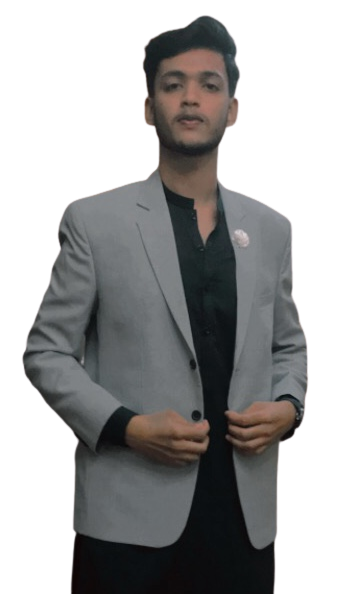
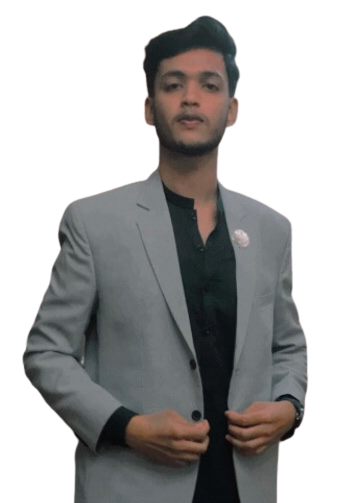
half

diff --git a/style.css b/style.css
@@ -2,45 +2,50 @@ body {
     margin: 0px;
     padding: 0px;
     background-color:rgb(54 53 67); 
+    color: white;
+    font-family: 'Roboto Mono', monospace;
 }
 .bg{
-    width: 500px;
-    height: 500px;
+    width: 325px;
+    height: 325px;
     background-color: rgb(41 41 43);
     box-sizing: border-box;
     border-radius: 360%;
     position: fixed;
     display: inline-block;
-    margin-left: 440px;
-    margin-top: 20px;
+    margin-left: 510px;
+    margin-top: -15px;
     z-index: -1;
 }
+
 body::before{
     content: "";
     background: url(profile.png) no-repeat center center/cover;
-    width: 300px;
-    height: 500px;
+    width: 215px;
+    height: 350px;
     position: fixed;
-    top: 165px;
-    left: 510px;
-    z-index: 1;
+    top: 71px;
+    left: 558px;
+    z-index: 2;
     opacity: 1;
 }
-.nav li {
-    list-style: none;
-}
-
-.nav li a {
-    text-decoration: none;
-    color:#ffffff5e
-}
-
-.nav {
+.navbar{
     display: flex;
-    flex-wrap: wrap;
-    justify-content: space-around;
-}
 
+}
+.nav{
+    display: flex;
+}
+.nav li{
+    list-style: none;
+    margin: 5px 20px;
+    padding: 10px 15px;
+    
+}
+.nav li a{
+    text-decoration: none;
+    color: white;
+}
 .nav li a.active,
 .nav li a:hover {
             text-decoration: none;
@@ -49,13 +54,20 @@ body::before{
             font-weight: bold;
             transition-duration: 0.5s;
         }
-
-.mid {
-    display: block;
-    width: 35%;
-    margin: 10px 200px;
-    text-align: center;
-    padding: 15px;
+.mid{
+    margin: 0 200px;
+}
+.right{
+    display: flex;
+    position: absolute;
+    right: 20px;
+    top: 5px;
+    
+}
+.right img{
+    padding: 10px;
+    width: 25px;
+    height: 25px;
 }
 .left{
     color: #fff;
@@ -64,17 +76,12 @@ body::before{
     margin:32px 116px;
     position:absolute  
 }
-.right img{
-    padding: 10px;
-    width: 25px;
-    height: 25px;
-}
-.right{
-    position:absolute ;
-    margin-top: -80px;
-    margin-left: 90%;
-    display: flex;
-
+.half2{
+     background-color: rgb(41 41 43) ;
+     height: 45%;
+     position: absolute;
+     width: 100%;
+    bottom: 0px;
 }
 .container{
     /* border: 2px solid; */
@@ -82,19 +89,20 @@ body::before{
     flex-direction: column;
     height: 400px;
     position: absolute;
-    margin-left: 130px;
-    margin-top: 80px;
+    margin-left: 120px;
+    margin-top: 15px;
 }
 .box{
     color: #fff;
     justify-content: space-between;
-    margin-bottom: 25px;
+
+    z-index: 1;
 }
 .box1{
-    font-size: 60px;
+    font-size: 40px;
 }
 .box2{
-    font-size: 60px;
+    font-size: 50px;
     font-weight: bold;
 }
 .box3{
@@ -102,10 +110,12 @@ body::before{
     height: 10px;
     border-radius: 15px;
     background-color: rgb(238, 144, 4);
+    margin: 10px 0px;
 }
 .box4{
-    font-size: 25px;
+    font-size: 15px;
     width: 300px;
+    margin: 15px 0px;
 }
 .container_left{
     /* border: 2px solid; */
@@ -113,15 +123,15 @@ body::before{
     flex-direction: column;
     height: 400px;
     position: absolute;
-    margin-left: 850px;
-    margin-top: 50px;
+    margin-left: 795px;
+    margin-top: 0px;
 }
 .box1_left{
     font-size: 20px;
 }
 .box2_left{
     font-size: 15px;
-    width: 220px;
+    width: 250px;
 }
 .box3_left a{
     color:  rgb(238, 144, 4);
@@ -137,13 +147,14 @@ body::before{
     width: 25px;
     height: 25px;
     justify-content: space-around;
+    width: 20px;
+    margin: 15px 0px;
 }
 .social{
-    /* border: 2px solid; */
-    background-color:rgb(64 64 85);
+    background-color: rgb(64 64 85);
     width: 80%;
-    height: 120px;
-    margin-top: 500px;
+    height: 95px;
+    margin-top: 300px;
     margin-left: 10%;
     position: absolute;
     display: flex;
@@ -152,22 +163,14 @@ body::before{
 }
 .media{
     width: 20%;
+    height: 65px;
     background-color:rgb(41 41 43);
     /* border: 2px solid; */
     margin: auto;
 }
 .media img{
-    width: 100px;
+    width: 90px;
     margin-left: 25%;
     padding: 10px;
-    height: 50px;
-}
-.footer{
-    width: 100%;
-    height: 150px;
-    position: fixed;
-    margin-top: 35%;
-    z-index: 2;
-    opacity: 2;
-    background-color: rgb(41 41 43);
+    height: 35px;
 }

diff --git a/index.html b/index.html
@@ -1,42 +1,54 @@
 <!DOCTYPE html>
 <html lang="en">
+
 <head>
     <meta charset="UTF-8">
     <meta http-equiv="X-UA-Compatible" content="IE=edge">
     <meta name="viewport" content="width=device-width, initial-scale=1.0">
     <title>SARIM'S PORTFOLIO</title>
     <link rel="stylesheet" href="./style.css">
+    <link rel="preconnect" href="https://fonts.googleapis.com">
+    <link rel="preconnect" href="https://fonts.gstatic.com" crossorigin>
+    <link href="https://fonts.googleapis.com/css2?family=Roboto+Mono:wght@500&display=swap" rel="stylesheet">
 </head>
+
 <body>
-    <header>      
-    </div>
-    <div class="left">
-            SARIM's
-        </div>
-        <div class="mid">
-            <ul class="nav">
-                <li><a href="#" class="active">HOME</a></li>
-                <li><a href="#">PORTFOLIO</a></li>
-                <li><a href="#">TESTIMONIAL</a></li>
-                <li><a href="#">ABOUT</a></li>
-            </ul>
-        </div>
-        <div class="right">
-            <div class="in"><img src="./linkedin-icon-1.svg" alt="404"></div>
-            <div class="si">
-                <img src="./icons8-menu-rounded-30.png" alt="404">
-            </div>
+    <div class="half">    
+        <header>
+            <div class="navbar">
+                <div class="left">
+                    SARIM's
+                </div>
+                <div class="mid">
+                    <ul class="nav">
+                        <li><a href="#" class="active">HOME</a></li>
+                        <li><a href="#">PORTFOLIO</a></li>
+                        <li><a href="#">TESTIMONIAL</a></li>
+                        <li><a href="#">ABOUT</a></li>
+                    </ul>
+                </div>
+                <div class="right">
+                    <div class="in"><img src="./linkedin-icon-1.svg" alt="404"></div>
+                    <div class="si">
+                        <img src="./icons8-menu-rounded-30.png" alt="404">
+                    </div>
+                </div>
         </div>
     </header>
+
     <div class="container">
-        <div class="box box1">I'm</div>
-        <div class="box box2">Sarim - Ul - Huda</div>
-        <div class="box box3"></div>
-        <div class="box box4">A freelancer who provides services for Web and Mobile App Development, for all businesses.</div>
+
+    <div class="box box1">I'm</div>
+    <div class="box box2">Sarim - Ul - Huda</div>
+    <div class="box box3"></div>
+    <div class="box box4">A freelancer who provides services for digital programming and design content needs, for
+        all businesses with more than 10years of experience.
     </div>
+</div>
+
     <div class="container_left">
         <h6 class="box box1_left">Services</h6>
-        <div class="box box2_left">Let's build quality products in programming and development with my sevices</div>
+        <div class="box box2_left">Let's build quality products in programming and design with my sevices</div>
         <div class="box box3_left"><a href="#">show more</a></div>
         <div class="box box4_left">
             <div class="logo"><img src="./facebook-3-2.svg" alt="404"></div>
@@ -45,17 +57,19 @@
             <div class="logo"><img src="./pinterest-1.svg" alt="404"></div>
         </div>
     </div>
-    <div class="bg"></div>
-    <div class="social">
-        <div class="media meta"><img src="./meta-1.svg" alt="404"></div>
-        <div class="media google"><img src="./google-2015.svg" alt="404"></div>
-        <div class="media linkedin"><img src="./linkedin-icon-2.svg" alt="404"></div>
-        <div class="media slack"><img src="./slack-2.svg" alt="404"></div>
+</div>
+
+<div class="social">
+    <div class="media meta"><img src="./meta-1.svg" alt="404"></div>
+    <div class="media google"><img src="./google-2015.svg" alt="404"></div>
+    <div class="media linkedin"><img src="./linkedin-icon-2.svg" alt="404"></div>
+    <div class="media slack"><img src="./slack-2.svg" alt="404"></div>
+    
+</div>
+<div class="bg"></div>
+    <div class="half2">
 
     </div>
-        <footer>
-            <div class="footer"></div>
-        </footer>
-        
 </body>
+
 </html>
